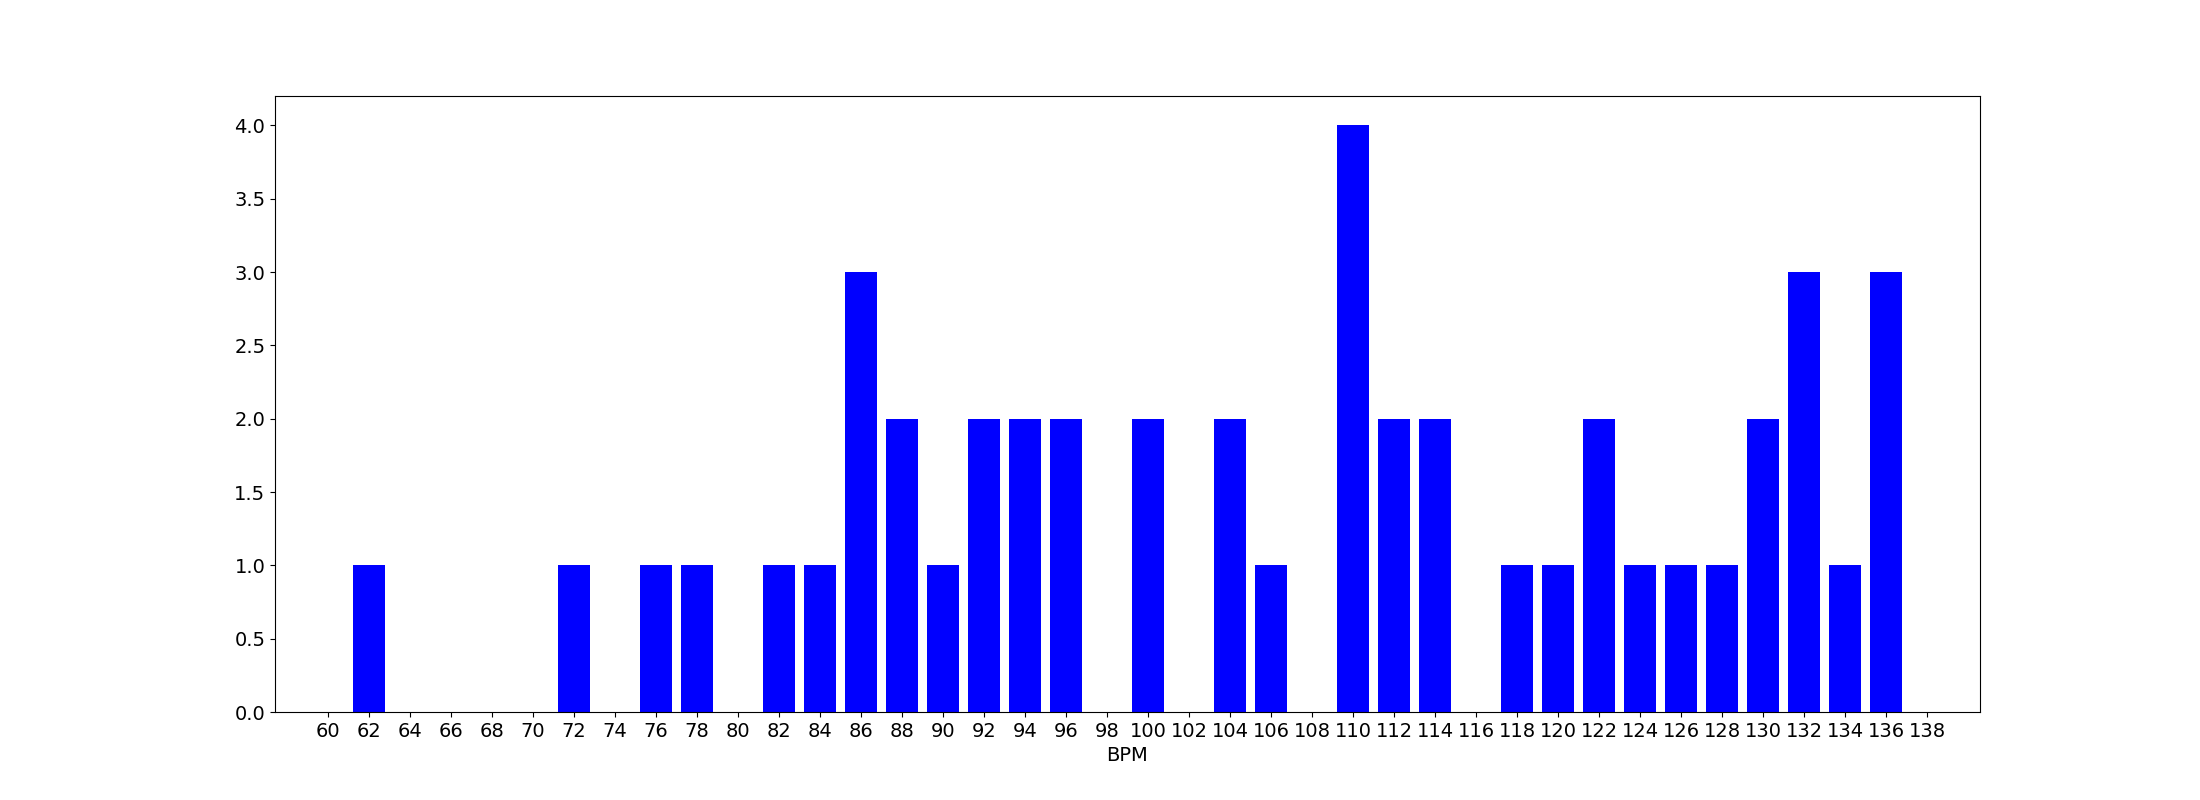
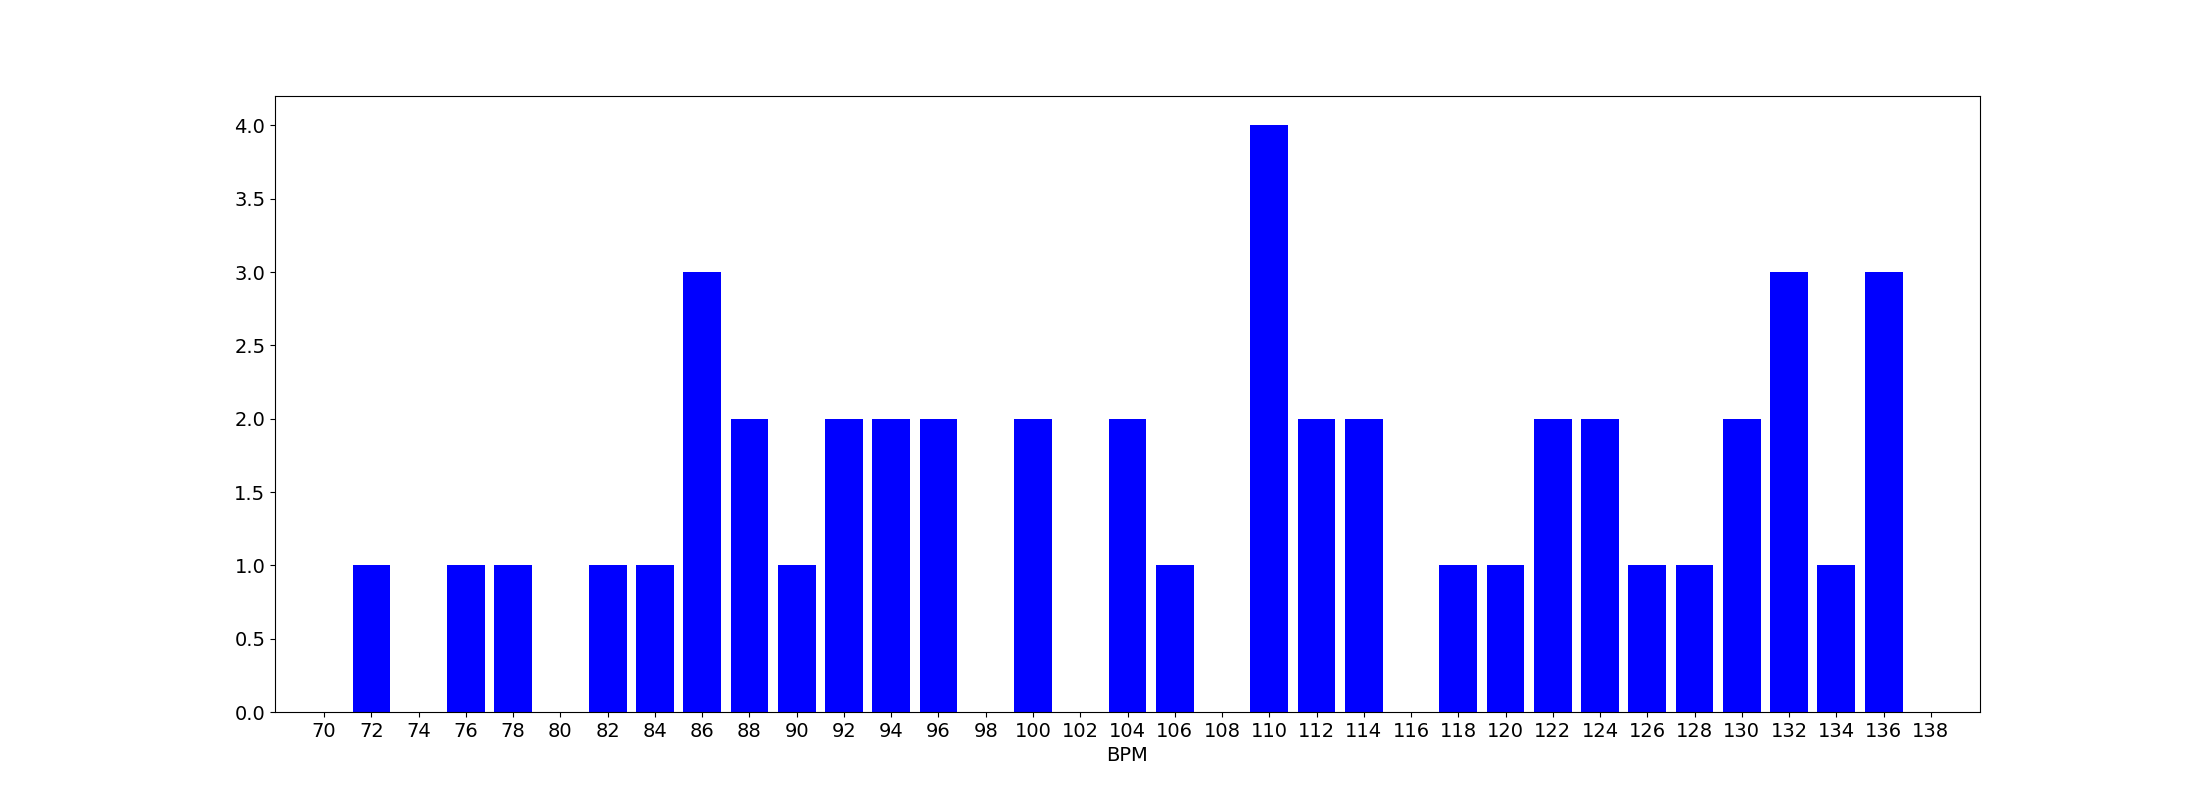
Plots

Changed region(s): [[0.1236, 0.1562, 0.8964, 0.9375]]

diff --git a/data/plot.py b/data/plot.py
@@ -15,6 +15,7 @@ import collections
 
 DEBUG = False
 GENERATE_STACKED_BARPLOT = False
+NORMALIZE_BPM = True
 BPM_WINDOW = 2
 
 DIR = 'img'
@@ -76,8 +77,11 @@ def get_year_xlabel(value):
 
 def get_bpm(value):
     bpm = int(value)
-    if bpm > 140:
-        bpm = int(bpm/2)
+    if NORMALIZE_BPM:
+        if bpm > 140:
+            bpm = int(bpm/2)
+        if bpm < 70:
+            bpm = int(bpm*2)
     out = bpm // BPM_WINDOW
     return out  
 

diff --git a/doc/README.md b/doc/README.md
@@ -74,7 +74,7 @@ For Real (by year)
 
 ### 54 * The Chordettes, 'Mr. Sandman'
 ### 55 A * Johny Cash, 'Folsom Prison'
-### 56 A * Elvis Presley, 'Heartbreak Hotel' ?
+### 56 A * Elvis Presley, 'Heartbreak Hotel' ??
 ### 58 A/B * Link Wray & His Ray Men, 'Rumble'
 ### 62 A * Dick Dale & HisDelTones, 'Misirlou'
 ### 63 * Astrud Gilberto & Stan Getz, 'The Girl from Ipanema'
@@ -96,28 +96,28 @@ For Real (by year)
 ### 72 B * Lou Reed, 'Walk on the Wild Side'
 ### 74 A/B/C * Bijelo Dugme, 'Top'
 ### 76 C * Ramones, 'Blietzkrieg Bop'
-### 76 D * Fela Kuti, 'Zombie' ?
+### 76 D * Fela Kuti, 'Zombie' 
 ### 77 C * Iggy Pop, 'Lust for life' 
 ### 77 C * Television, 'Marque Moon'
 ### 78 C * Talking Heads, 'Psychokiler'
+### 78 * waits - blue valentine
 ### 78 C * Clash, 'London calling'
 ### 79 C * Joy Division, 'Transmission'
 ### 80 A/B * Tom Waits, 'In Shades' 
 ### 80 C * Pankrti, 'Sedemnajst'
 ### 80 D * The Sugar Hill Gang, 'Rapper's Delight'
 ### 81 C * Pankrti, 'Tovar'ši, jest vam ne verjamem'
-### 83 C/F * The Smiths, 'This Charming Man'
-### 83 C/F * Add it up - Violent Femmes ??
+### 83 C/F * Add it up - Violent Femmes 
 ### 83 C/F * Violent Femmes, 'Blister on the Sun'
-### 86 D * Prince, 'Kiss' ?
+### 83 C/F * The Smiths, 'This Charming Man'
+### 86 D * Prince, 'Kiss' ??
 ### 88 * Safet Isovic, 'Bosna Moja'
 ### 91 B/F * Nirvana, 'In Bloom'
-### 93 A/B/C/D * Beck, 'Loser' ?
+### 93 A/B/C/D * Beck, 'Loser'
 ### 96 B * Satyricon, 'Mother North'
 ### 97 B/C * Blur, 'Song 2'
 ### 97 E The Prodigy - Smack My Bitch Up
 ### 00 F * Bright Eyes, 'When the Curious Girl Realizes She is Under Glass'
-### 99 C/F * At The Drive In, 'One Armed Scissor' ??
 ### 99 E * Groove Armada, 'Superstylin'
 ### 03 A * Johny Cash, 'Hurt'
 ### 04 E/C * LCD Soundsystem, 'Yeah'
@@ -126,8 +126,8 @@ For Real (by year)
 
 Considering (select 8 of 26)
 -----------
+### 99 C/F * At The Drive In, 'One Armed Scissor' ??
 Seatbelts - Clutch (japan big band)
-waits - blue valentine
 dk - california uber alles
 
 ### 65 A/B * Dylan, 'Subterranean Homesick Blues' ??
